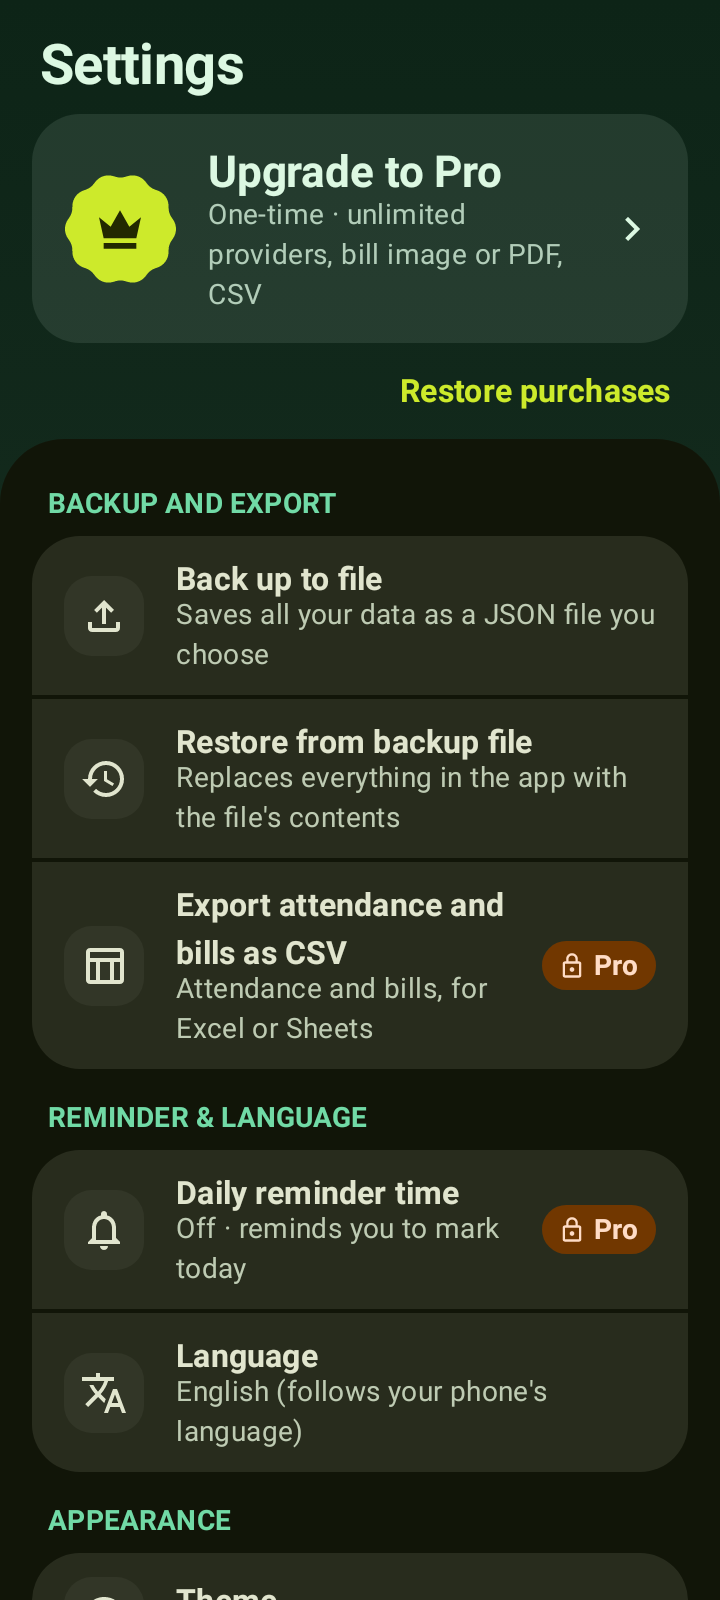
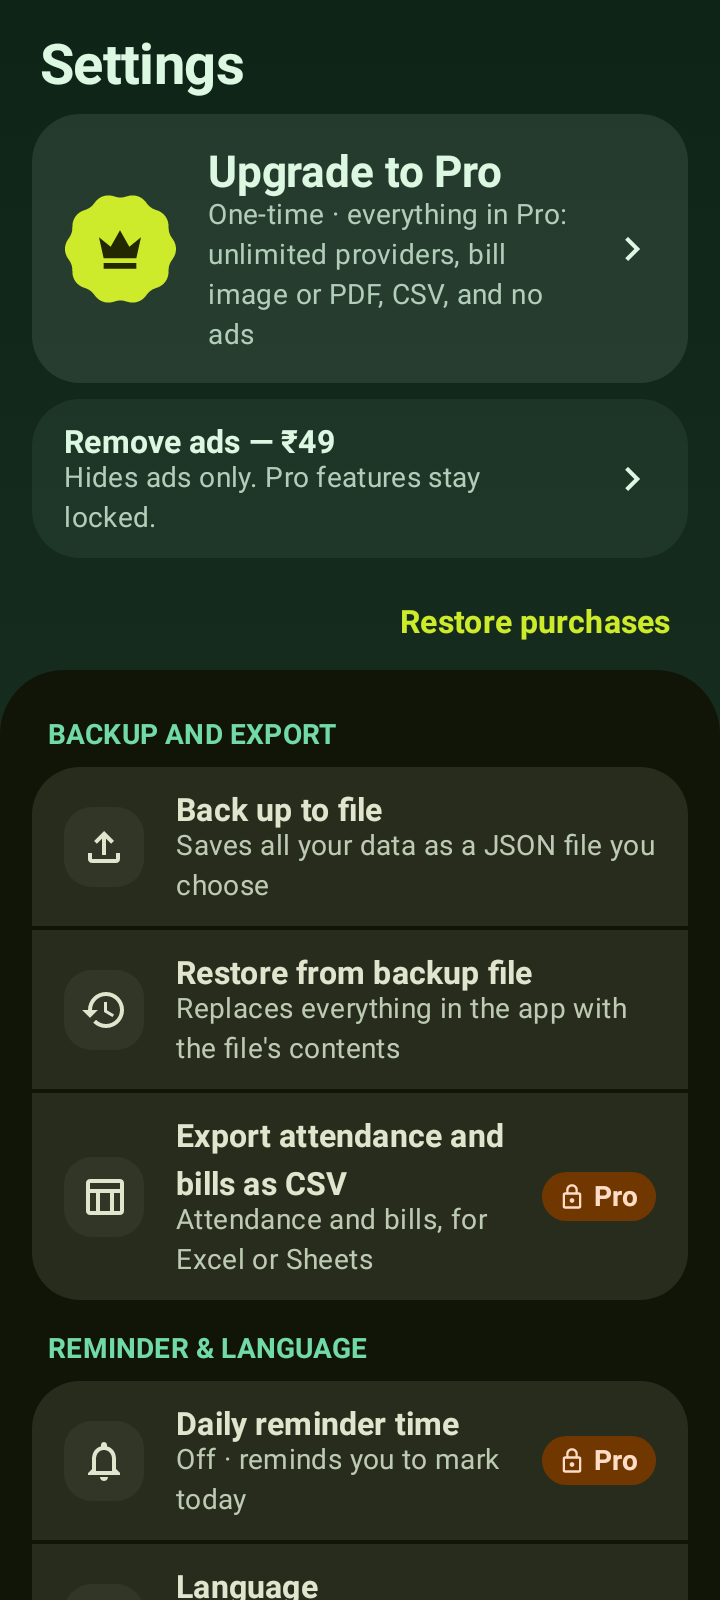
Ad-free fallback build switch, UMP QA test devices, #31 follow-ups (#30)
- adsShipping=false: no Mobile Ads init/UMP/ad requests/views, MobileAdsInitProvider disabled
- debug-only ump.testDeviceIds from local.properties; release never sets debug geography
- Pro purchase_restored carries price_micros/value/currency when known
- tests for already_owned, remove_ads_paywall_view, consent debug; re-recorded Settings renders
- README: build variants and UMP QA

diff --git a/app/src/main/kotlin/com/postpole/gharkhata/ads/AdsManager.kt b/app/src/main/kotlin/com/postpole/gharkhata/ads/AdsManager.kt
@@ -16,6 +16,7 @@ import com.google.android.gms.ads.MobileAds
 import com.google.android.gms.ads.RequestConfiguration
 import com.google.android.gms.ads.interstitial.InterstitialAd
 import com.google.android.gms.ads.interstitial.InterstitialAdLoadCallback
+import com.postpole.gharkhata.BuildConfig
 import com.postpole.gharkhata.billing.BillingRepository
 import kotlinx.coroutines.CoroutineScope
 import kotlinx.coroutines.Dispatchers
@@ -43,6 +44,8 @@ class AdsManager(
     private val dataStore: DataStore<Preferences>,
     private val scope: CoroutineScope,
     private val clock: () -> Long = System::currentTimeMillis,
+    /** Compile-time switch: false is the ad-free build, where this class does nothing. */
+    private val adsShipping: Boolean = BuildConfig.ADS_SHIPPING,
 ) {
     private val initStarted = AtomicBoolean(false)
     private val started = AtomicBoolean(false)
@@ -63,12 +66,12 @@ class AdsManager(
     /** Banners may be shown: consent given, SDK ready, kill switch on, banners on, not Pro. */
     val bannersAllowed: StateFlow<Boolean> =
         combine(sdkReadyFlow, consentGate, config.settings, entitledToAds) { ready, consented, s, pro ->
-            ready && consented && s.adsEnabled && s.bannerEnabled && !pro
+            adsShipping && ready && consented && s.adsEnabled && s.bannerEnabled && !pro
         }.stateIn(scope, SharingStarted.Eagerly, false)
 
     private val interstitialsAllowedFlow =
         combine(sdkReadyFlow, consentGate, config.settings, entitledToAds) { ready, consented, s, pro ->
-            ready && consented && s.adsEnabled && s.interstitialEnabled && !pro
+            adsShipping && ready && consented && s.adsEnabled && s.interstitialEnabled && !pro
         }.stateIn(scope, SharingStarted.Eagerly, false)
 
     val privacyOptionsRequired: StateFlow<Boolean> get() = consent.privacyOptionsRequired
@@ -80,7 +83,7 @@ class AdsManager(
 
     /** Call once from Application.onCreate. */
     fun start() {
-        if (!started.compareAndSet(false, true)) return
+        if (!adsShipping || !started.compareAndSet(false, true)) return
         config.refresh()
         scope.launch {
             val prefs = dataStore.data.first()
@@ -98,11 +101,13 @@ class AdsManager(
     }
 
     /** App returned to the foreground: pick up Remote Config changes (kill switch). */
-    fun onForeground() = config.refresh()
+    fun onForeground() {
+        if (adsShipping) config.refresh()
+    }
 
     /** UMP first, then init. Safe to call repeatedly (e.g. on every Activity creation). */
     fun gatherConsent(activity: Activity) {
-        if (initStarted.get()) return
+        if (!adsShipping || initStarted.get()) return
         consent.gather(activity) { canRequest -> applyConsent(canRequest) }
     }
 

diff --git a/app/src/test/kotlin/com/postpole/gharkhata/billing/BillingRepositoryTest.kt b/app/src/test/kotlin/com/postpole/gharkhata/billing/BillingRepositoryTest.kt
@@ -515,4 +515,49 @@ class BillingRepositoryTest {
         advanceUntilIdle()
         assertEquals(listOf("purchase_started"), analytics.events.map { it.first })
     }
+
+    @Test fun removeAds_alreadyOwned_logsFailWithAlreadyOwnedReason() = runTest {
+        val analytics = RecordingAnalytics()
+        val repo = started(analytics)
+        repo.launchPurchase(activity, Product.REMOVE_ADS)
+        gateway.updatesFlow.emit(PurchaseUpdate.AlreadyOwned)
+        advanceUntilIdle()
+        assertEquals(listOf("remove_ads_purchase_start", "remove_ads_purchase_fail"), analytics.events.map { it.first })
+        val fail = analytics.events.last().second
+        assertEquals("already_owned", fail["reason"])
+        assertEquals("remove_ads", fail["item_id"])
+    }
+
+    @Test fun pro_alreadyOwned_logsNoRemoveAdsFail() = runTest {
+        val analytics = RecordingAnalytics()
+        val repo = started(analytics)
+        repo.launchPurchase(activity, Product.PRO)
+        gateway.updatesFlow.emit(PurchaseUpdate.AlreadyOwned)
+        advanceUntilIdle()
+        assertEquals(listOf("purchase_started"), analytics.events.map { it.first })
+    }
+
+    @Test fun pro_restore_carriesPriceValueAndCurrencyWhenKnown() = runTest {
+        val analytics = RecordingAnalytics()
+        gateway.owned = listOf(purchased.copy(acknowledged = true))
+        started(analytics)
+        val restored = analytics.events.single { it.first == "purchase_restored" }.second
+        assertEquals("pro_id", restored["item_id"])
+        assertEquals(499_000_000L, restored["price_micros"])
+        assertEquals(499.0, restored["value"])
+        assertEquals("INR", restored["currency"])
+    }
+
+    @Test fun pro_restore_withoutKnownPrice_hasNoValueOrCurrency() = runTest {
+        val analytics = RecordingAnalytics()
+        gateway.owned = listOf(purchased.copy(acknowledged = true))
+        gateway.product = ProductResult.Unavailable
+        val repo = repoWith(analytics)
+        repo.start()
+        advanceUntilIdle()
+        val restored = analytics.events.single { it.first == "purchase_restored" }.second
+        assertFalse(restored.containsKey("value"))
+        assertFalse(restored.containsKey("currency"))
+        assertFalse(restored.containsKey("price_micros"))
+    }
 }

diff --git a/app/src/main/kotlin/com/postpole/gharkhata/ads/ConsentManager.kt b/app/src/main/kotlin/com/postpole/gharkhata/ads/ConsentManager.kt
@@ -18,7 +18,8 @@ import kotlinx.coroutines.flow.asStateFlow
  * published in AdMob; elsewhere UMP reports ads can be requested straight away.
  */
 class ConsentManager(context: Context) {
-    private val info: ConsentInformation = UserMessagingPlatform.getConsentInformation(context)
+    // Lazy so the ad-free build never touches UMP.
+    private val info: ConsentInformation by lazy { UserMessagingPlatform.getConsentInformation(context) }
     private var gathering = false
 
     private val _privacyOptionsRequired = MutableStateFlow(false)
@@ -35,12 +36,15 @@ class ConsentManager(context: Context) {
     fun gather(activity: Activity, onDone: (canRequestAds: Boolean) -> Unit) {
         if (gathering) return
         gathering = true
+        // Debug builds only; release always resolves to no debug geography and no test devices.
+        val debug = consentDebugConfig(BuildConfig.DEBUG, BuildConfig.UMP_DEBUG_EEA, BuildConfig.UMP_TEST_DEVICE_IDS)
         val params = ConsentRequestParameters.Builder().apply {
-            if (BuildConfig.UMP_DEBUG_EEA) {
+            if (debug.isActive) {
                 setConsentDebugSettings(
-                    ConsentDebugSettings.Builder(activity)
-                        .setDebugGeography(ConsentDebugSettings.DebugGeography.DEBUG_GEOGRAPHY_EEA)
-                        .build(),
+                    ConsentDebugSettings.Builder(activity).apply {
+                        if (debug.eeaGeography) setDebugGeography(ConsentDebugSettings.DebugGeography.DEBUG_GEOGRAPHY_EEA)
+                        debug.testDeviceIds.forEach(::addTestDeviceHashedId)
+                    }.build(),
                 )
             }
         }.build()

diff --git a/app/src/test/kotlin/com/postpole/gharkhata/ui/settings/RemoveAdsPaywallViewLoggerTest.kt b/app/src/test/kotlin/com/postpole/gharkhata/ui/settings/RemoveAdsPaywallViewLoggerTest.kt
@@ -1,0 +1,34 @@
+package com.postpole.gharkhata.ui.settings
+
+import com.postpole.gharkhata.analytics.Analytics
+import org.junit.Assert.assertEquals
+import org.junit.Test
+
+class RemoveAdsPaywallViewLoggerTest {
+    private class Recording : Analytics {
+        val events = mutableListOf<String>()
+
+        override fun logEvent(name: String, params: Map<String, Any>) {
+            events += name
+        }
+
+        override fun setUserProperty(name: String, value: String?) = Unit
+        override fun logScreenView(screenName: String) = Unit
+        override fun recordNonFatal(throwable: Throwable) = Unit
+    }
+
+    @Test fun logsOncePerVisit() {
+        val a = Recording()
+        val logger = RemoveAdsPaywallViewLogger(a)
+        logger.onOfferShown()
+        logger.onOfferShown()
+        assertEquals(listOf("remove_ads_paywall_view"), a.events)
+    }
+
+    @Test fun newVisit_logsAgain() {
+        val a = Recording()
+        RemoveAdsPaywallViewLogger(a).onOfferShown()
+        RemoveAdsPaywallViewLogger(a).onOfferShown()
+        assertEquals(2, a.events.size)
+    }
+}

diff --git a/app/src/test/kotlin/com/postpole/gharkhata/ads/ConsentDebugTest.kt b/app/src/test/kotlin/com/postpole/gharkhata/ads/ConsentDebugTest.kt
@@ -1,0 +1,26 @@
+package com.postpole.gharkhata.ads
+
+import org.junit.Assert.assertEquals
+import org.junit.Assert.assertFalse
+import org.junit.Assert.assertTrue
+import org.junit.Test
+
+class ConsentDebugTest {
+    @Test fun release_neverSetsGeographyOrDevices() {
+        val c = consentDebugConfig(isDebugBuild = false, eeaRequested = true, idsCsv = "ABC,DEF")
+        assertFalse(c.eeaGeography)
+        assertTrue(c.testDeviceIds.isEmpty())
+        assertFalse(c.isActive)
+    }
+
+    @Test fun debug_parsesCommaSeparatedIds() {
+        val c = consentDebugConfig(true, true, " ABC , DEF,,ABC ")
+        assertEquals(listOf("ABC", "DEF"), c.testDeviceIds)
+        assertTrue(c.eeaGeography)
+        assertTrue(c.isActive)
+    }
+
+    @Test fun debug_noIdsNoEea_isInactive() = assertFalse(consentDebugConfig(true, false, "").isActive)
+
+    @Test fun debug_eeaWithoutIds_isActive() = assertTrue(consentDebugConfig(true, true, "").isActive)
+}

diff --git a/app/src/main/kotlin/com/postpole/gharkhata/ads/ConsentDebug.kt b/app/src/main/kotlin/com/postpole/gharkhata/ads/ConsentDebug.kt
@@ -1,0 +1,16 @@
+package com.postpole.gharkhata.ads
+
+/** UMP debug settings to apply. Empty/false means none are set. */
+data class ConsentDebugConfig(val eeaGeography: Boolean, val testDeviceIds: List<String>) {
+    val isActive: Boolean get() = eeaGeography || testDeviceIds.isNotEmpty()
+}
+
+/**
+ * Decides the UMP debug settings. Release builds ([isDebugBuild] false) never get debug geography
+ * or test devices, whatever the other inputs say. [idsCsv] is the comma-separated hashed test device ids.
+ */
+fun consentDebugConfig(isDebugBuild: Boolean, eeaRequested: Boolean, idsCsv: String): ConsentDebugConfig {
+    if (!isDebugBuild) return ConsentDebugConfig(false, emptyList())
+    val ids = idsCsv.split(',').map { it.trim() }.filter { it.isNotEmpty() }.distinct()
+    return ConsentDebugConfig(eeaRequested, ids)
+}

diff --git a/app/src/main/kotlin/com/postpole/gharkhata/ui/settings/SettingsViewModel.kt b/app/src/main/kotlin/com/postpole/gharkhata/ui/settings/SettingsViewModel.kt
@@ -53,14 +53,10 @@ class SettingsViewModel @Inject constructor(
     val removeAdsPending: StateFlow<Boolean> = billing.removeAdsPending
     val removeAdsUnavailable: StateFlow<Boolean> = billing.removeAdsUnavailable
 
-    private var removeAdsViewLogged = false
+    private val paywallViewLogger = RemoveAdsPaywallViewLogger(analytics)
 
     /** Logged once per Settings visit when a purchasable Remove ads offer is on screen. */
-    fun onRemoveAdsOfferShown() {
-        if (removeAdsViewLogged) return
-        removeAdsViewLogged = true
-        analytics.logEvent(AnalyticsEvents.REMOVE_ADS_PAYWALL_VIEW)
-    }
+    fun onRemoveAdsOfferShown() = paywallViewLogger.onOfferShown()
 
     fun buyRemoveAds(activity: Activity) {
         analytics.logEvent(

diff --git a/app/src/main/kotlin/com/postpole/gharkhata/billing/BillingRepository.kt b/app/src/main/kotlin/com/postpole/gharkhata/billing/BillingRepository.kt
@@ -269,10 +269,7 @@ class BillingRepository(
         when (product) {
             Product.PRO -> when (source) {
                 Source.PURCHASE_FLOW -> analytics.logEvent(AnalyticsEvents.PURCHASE, params)
-                Source.REFRESH -> analytics.logEvent(
-                    AnalyticsEvents.PURCHASE_RESTORED,
-                    params.filterKeys { it == AnalyticsParams.ITEM_ID },
-                )
+                Source.REFRESH -> analytics.logEvent(AnalyticsEvents.PURCHASE_RESTORED, params)
             }
             Product.REMOVE_ADS ->
                 if (source == Source.PURCHASE_FLOW) analytics.logEvent(AnalyticsEvents.REMOVE_ADS_PURCHASE_SUCCESS, params)

diff --git a/app/src/test/kotlin/com/postpole/gharkhata/ui/settings/SettingsScreenshotTest.kt b/app/src/test/kotlin/com/postpole/gharkhata/ui/settings/SettingsScreenshotTest.kt
@@ -43,10 +43,13 @@ class SettingsScreenshotTest {
     val compose = createComposeRule()
 
     private fun settings(isPro: Boolean, dark: Boolean, file: String) {
+        // Free renders show the Remove ads row (ads build); Pro never sees it.
+        val removeAds = if (isPro) null else RemoveAdsOffer.Price("₹49")
         compose.setContent {
             GharKhataTheme(darkTheme = dark, dynamicColor = false) {
                 SettingsContent(
                     isPro = isPro,
+                    removeAds = removeAds,
                     themeMode = ThemeMode.SYSTEM,
                     dynamicColor = false,
                     currency = "INR",

diff --git a/app/src/main/kotlin/com/postpole/gharkhata/ui/settings/RemoveAdsPaywallViewLogger.kt b/app/src/main/kotlin/com/postpole/gharkhata/ui/settings/RemoveAdsPaywallViewLogger.kt
@@ -1,0 +1,15 @@
+package com.postpole.gharkhata.ui.settings
+
+import com.postpole.gharkhata.analytics.Analytics
+import com.postpole.gharkhata.analytics.AnalyticsEvents
+
+/** Logs `remove_ads_paywall_view` at most once per instance (one Settings visit). */
+internal class RemoveAdsPaywallViewLogger(private val analytics: Analytics) {
+    private var logged = false
+
+    fun onOfferShown() {
+        if (logged) return
+        logged = true
+        analytics.logEvent(AnalyticsEvents.REMOVE_ADS_PAYWALL_VIEW)
+    }
+}

diff --git a/app/src/main/kotlin/com/postpole/gharkhata/ads/AdsSettings.kt b/app/src/main/kotlin/com/postpole/gharkhata/ads/AdsSettings.kt
@@ -79,7 +79,7 @@ interface AdsSettingsSource {
  */
 class RemoteConfigAdsSettings(context: Context) : AdsSettingsSource {
     private val remote: FirebaseRemoteConfig? =
-        if (FirebaseApp.getApps(context).isEmpty()) {
+        if (!BuildConfig.ADS_SHIPPING || FirebaseApp.getApps(context).isEmpty()) {
             null
         } else {
             FirebaseRemoteConfig.getInstance().also { rc ->

diff --git a/README.md b/README.md
@@ -18,6 +18,25 @@ Requires JDK 21 and the Android SDK (`ANDROID_HOME` or `local.properties` with `
 ./gradlew assembleRelease
 ```
 
+## Build variants (ads switch)
+One compile-time Gradle property, `adsShipping` (exposed as `BuildConfig.ADS_SHIPPING`), selects the variant. It works for every task, debug or release.
+
+| Variant | Command | Behaviour |
+| --- | --- | --- |
+| Ads release (default) | `./gradlew bundleRelease` | UMP consent, Mobile Ads SDK, banner and interstitial, Remove ads row, "No ads" Pro bullet |
+| Ad-free fallback | `./gradlew bundleRelease -PadsShipping=false` | No Mobile Ads SDK init (its auto-init provider is disabled in the manifest), no UMP, no ad requests or views, no Remove ads row, no ad-related copy (Privacy options row never appears). GA4, Crashlytics and AD_ID are unchanged |
+
+Use the ad-free fallback if the ads release isn't ready by about 28 Nov. Release builds use production ad units; debug builds, and `-PtestAds=true` release builds, use Google's demo units only.
+
+### UMP QA (debug builds only)
+To make the consent form appear on a test device, add its hashed id (printed in Logcat as "Use RequestConfiguration.Builder().setTestDeviceIds(...)" / UMP debug messages) to the git-ignored `local.properties`:
+
+```
+ump.testDeviceIds=33BE2250B43518CCDA7DE426D04EE231,ANOTHERHASHEDID
+```
+
+Debug builds pass these ids to `ConsentDebugSettings`, and debug EEA geography is turned on automatically when ids are set. Override with `-PumpDebugEea=true|false`. Release builds never set debug geography or test devices (enforced in `consentDebugConfig`, covered by `ConsentDebugTest`). To re-test, clear app data or run `ConsentInformation.reset()`.
+
 ## Release and signing
 `app/build.gradle.kts` signs the release build from `KEYSTORE_BASE64` (or `KEYSTORE_FILE`), `KEYSTORE_PASSWORD`, `KEY_ALIAS`, `KEY_PASSWORD` (environment or `local.properties`); the build is unsigned if absent. The release workflow lives in `ci-templates/release.yml` (signed AAB artifact on push to main; optional draft upload to the Play internal track via `workflow_dispatch`).
 
